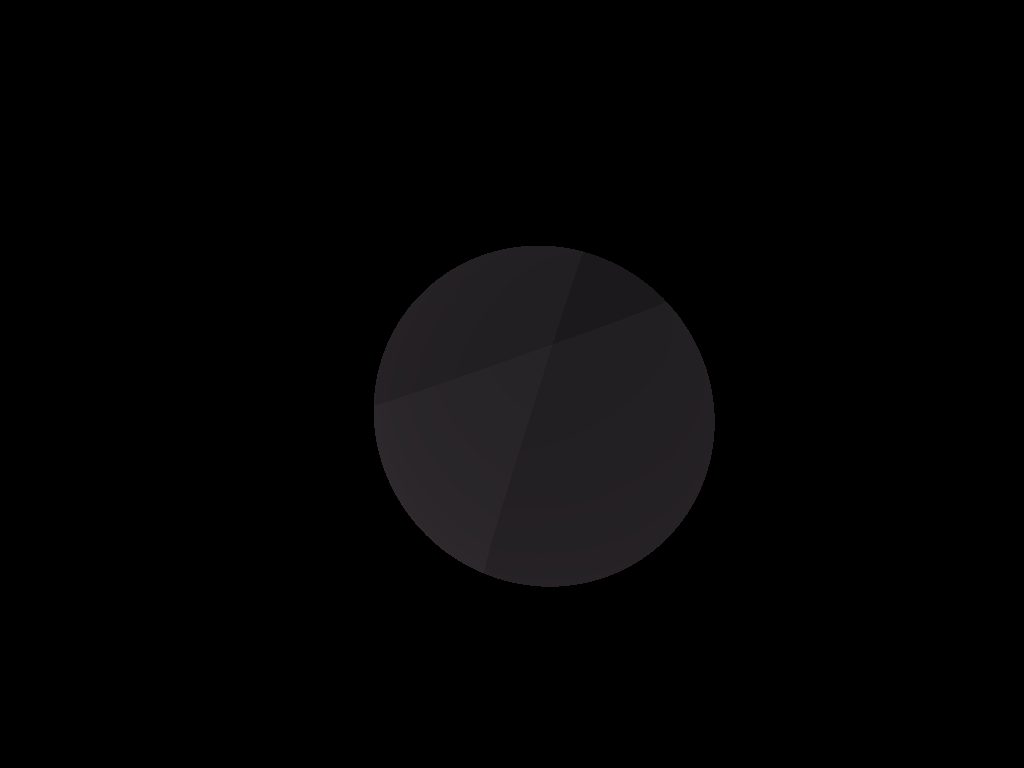
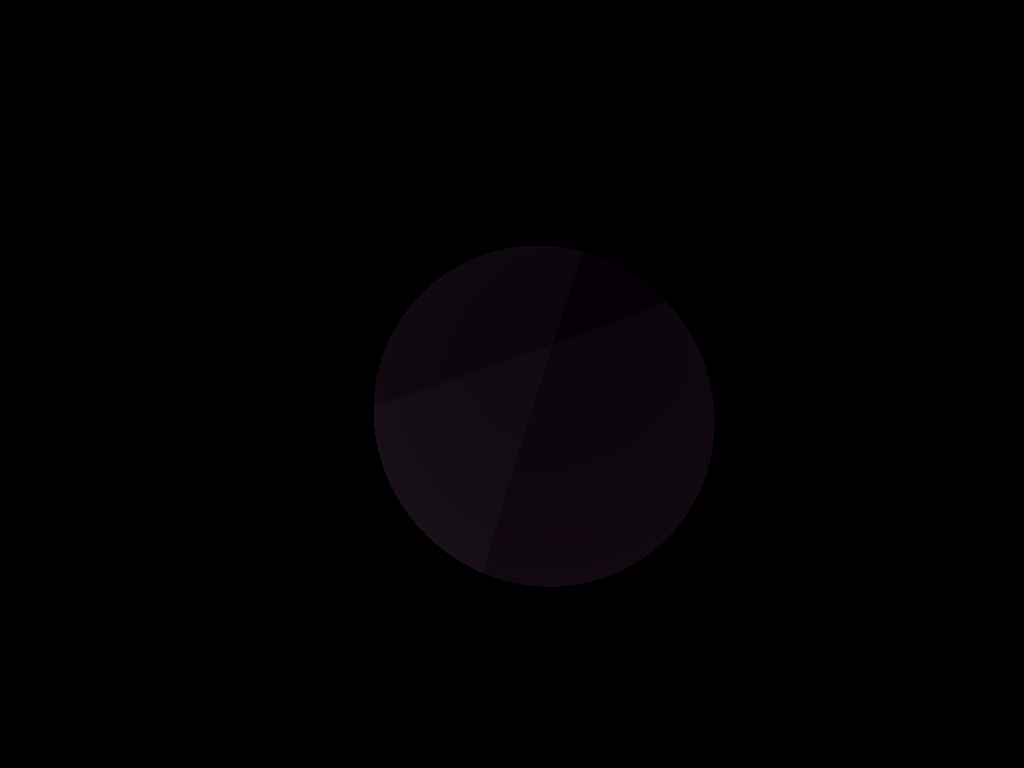
commit before some changes

Changed region(s): [[0.3438, 0.3125, 0.7188, 0.7812]]

diff --git a/src/api.rs b/src/api.rs
@@ -1,4 +1,4 @@
-use crate::{lights::{point_light::PointLight, ambient_light::AmbientLight}, core::{color::{Color, self}, point::Point, vector::Vector}, shapes::base_shape::BaseShape, scene::Scene, implicit_surfaces::implicit_surfaces, camera::pinhole::PinholeCamera, render::Render, materials::phong::Phong, bx};
+use crate::{lights::{point_light::PointLight, ambient_light::AmbientLight}, core::{color::{Color, self}, point::Point, vector::Vector}, shapes::base_shape::BaseShape, scene::Scene, implicit_surfaces::implicit_surfaces, camera::pinhole::PinholeCamera, render::Render, materials::{phong::Phong, matte::Matte}, bx};
 
 pub fn make_scene(shape: BaseShape) -> Scene {
     let light = make_light(color::WHITE, 0.5, Point::new(4.0, 2.0, 4.0));
@@ -17,6 +17,7 @@ pub fn make_scene(shape: BaseShape) -> Scene {
 pub fn sphere1(r: f32, _num_samples: i32) -> Render {
     let main_color = color::FUCHSIA;
     let white = color::WHITE;
+    //let material = Matte::new(main_color, 1.0, main_color, 1.0);
     let material = Phong::new(main_color, 0.2, main_color, 0.8, white, 0.7, 100);
     // mkPhongMaterial aqua 0.2 aqua 0.8 white 0.7 100
 
@@ -31,6 +32,23 @@ pub fn sphere1(r: f32, _num_samples: i32) -> Render {
         3.0,
         1024,
         768
+    );
+    let scene = make_scene(s);
+    Render::new(scene, camera)
+}
+
+pub fn torus(r: f32, rr: f32) -> Render {
+    let material = Matte::new(color::BLUE, 1.0, color::BLUE, 1.0);
+    let s = implicit_surfaces::make_implicit(format!("(((x^2 + y^2)_2 - {r})^2 + z^2)_2 - {rr}"), bx!(material));
+    let camera = PinholeCamera::new(
+        Point::new(0.0, 0.0, 4.0), 
+        Point::new(0.0, 0.0, 0.0),
+        Vector::new(0.0, 1.0, 0.0),
+        2.0, 
+        4.0, 
+        4.0,
+        500, 
+        500
     );
     let scene = make_scene(s);
     Render::new(scene, camera)

diff --git a/src/implicit_surfaces/uni_poly.rs b/src/implicit_surfaces/uni_poly.rs
@@ -272,7 +272,7 @@ pub fn sturm_seq(up: &UniPoly, derivative: &UniPoly) -> Vec<UniPoly> {
 /*
     Counts sign changes in a UniPoly Vec, for a given value inserted in the variable's place
 */
-fn count_sign_changes(up_vec: &Vec<UniPoly>, t: f32) -> u32 {
+fn count_sign_changes(up_vec: &Vec<UniPoly>, t: f32) -> i32 {
     let mut prev = solve_uni_poly(&up_vec[0], t);
     let mut count = 0;
     for i in 1..up_vec.len() {
@@ -294,17 +294,22 @@ fn count_sign_changes(up_vec: &Vec<UniPoly>, t: f32) -> u32 {
 */
 pub fn get_interval(up_vec: &Vec<UniPoly>, lo: f32, hi: f32, depth: i32) -> Option<(f32, f32)> {
     if depth <= 0 {
+        println!("returning some");
         Some((lo, hi))
     } else {
+        println!("\n{:?}\nlo: {}, hi: {}, depth: {}", up_vec, lo, hi, depth);
         let mid = lo + (hi - lo) / 2.0;
         let lo_diff = count_sign_changes(&up_vec, lo) - count_sign_changes(&up_vec, mid);
+        println!("lo_diff: {}", lo_diff);
         if lo_diff > 0 {
             get_interval(up_vec, lo, mid, depth - 1)
         } else {
             let hi_diff = count_sign_changes(&up_vec, mid) - count_sign_changes(&up_vec, hi);
+            println!("hi_diff: {}", hi_diff);
             if hi_diff > 0 {
                 get_interval(up_vec, mid, hi, depth - 1)
             } else {
+                println!("returning none");
                 None
             }
         }

diff --git a/src/materials/phong.rs b/src/materials/phong.rs
@@ -48,20 +48,26 @@ impl Material for Phong {
         let dp = n * ld;
         let lc = light.get_color();
 
-
         // determine the colour
         if dp > 0.0 {
-            let specular = if r1 * -rd > 0.0 {
-                self.specular_color * self.specular_coefficient * (r1 * -rd).powi(self.specular_exponent)
+            let r1_neg_rd = r1 * (-rd);
+            let specular = if r1_neg_rd > 0.0 {
+                self.specular_color * self.specular_coefficient * r1_neg_rd.powi(self.specular_exponent)
             } else {
                 color::BLACK
             };
 
             let direction = lc * dp;
-
+            //println!("dir: {:?}", direction);
+            //println!("diff: {:?}", self.diffuse);
+            //println!("spec: {:?}\n", specular);
             (self.diffuse + specular) * direction
         } else {
             color::BLACK
         }
+    }
+
+    fn ambient_color_with_light(&self, ambient_light: &AmbientLight) -> Color {
+        self.ambient_color * self.ambient_coefficient * ambient_light.get_color()
     }
 }

diff --git a/src/render.rs b/src/render.rs
@@ -2,7 +2,7 @@
 use lodepng;
 use std::path::Path;
 
-use crate::{scene::Scene, camera::pinhole::PinholeCamera, core::{color::{Color, self}, ray::Ray, hitpoint::HitPoint}, lights::{point_light::PointLight, Light}, shapes::base_shape::BaseShape};
+use crate::{scene::Scene, camera::pinhole::PinholeCamera, core::{color::{Color, self}, ray::Ray, hitpoint::HitPoint}, lights::{point_light::PointLight}, shapes::base_shape::BaseShape};
 
 pub struct Render {
     pub scene: Scene,
@@ -18,7 +18,7 @@ impl Render {
         match self.get_closest_hit(ray) {
             None                => self.scene.background,
             Some((hit, shape))  => {
-                let ambient_color = self.scene.ambient.get_color();
+                let ambient_color = shape.material.ambient_color_with_light(&self.scene.ambient);
                 
                 // sum the light colors (minus the shadow) for that hitpoint, and add them to the ambient color
                 self.scene.lights.iter()

diff --git a/src/implicit_surfaces/implicit_surfaces.rs b/src/implicit_surfaces/implicit_surfaces.rs
@@ -365,8 +365,11 @@ pub fn make_implicit(s: String, material: Box<dyn Material>) -> BaseShape {
     let pdz = partial_derivative(&exp, "z".into());
     // converting the Expr to a polynomial
     let poly = poly::expr_to_poly(subst_with_ray(&exp), "t".into());
+
+    //println!("POLY: {:?}\n", poly);
     // turn the poly into a vec of (i32, IntSimpleExpr) tuples
     let poly_vec = uni_poly::to_int_simple_expr_vec(poly::poly_as_list(poly));
+    //println!("POLY_VEC: {:?}\n", poly_vec);
 
     let hit_function: HitFunction = match poly_vec.last().expect("should not be empty").0 {
         1 => hit_function_first_degree(poly_vec, pdx, pdy, pdz),
@@ -374,6 +377,8 @@ pub fn make_implicit(s: String, material: Box<dyn Material>) -> BaseShape {
         _ => hit_function_higher_degree(poly_vec, pdx, pdy, pdz),
     };
     
+    //println!("so far so good");
+
     let is_inside = Box::pin(
         move |p: &Point| expr::solve_expr(&exp, &p) > 0.0
     );

diff --git a/src/core/color.rs b/src/core/color.rs
@@ -39,18 +39,18 @@ impl Color {
         }
     }
 
-    pub fn merge(&self, w: f32) -> Color {
+    /*fn merge(&self, w: f32) -> Color {
         if w < 0.0 || w > 1.0 {
             panic!("Color::merge: w i to small or too big");
         } else {
             let dw = 1.0 - w;
             Color::new(w * self.r + dw * self.r, w * self.g + dw * self.b, w * self.b + dw * self.b)
         }
-    }
+    }*/
 
-    pub fn average(&self) -> f32 {
+    /*fn average(&self) -> f32 {
         (self.r + self.g + self.b) * 3.0
-    }
+    }*/
 
     pub fn to_u8_vec(&self) -> Vec<u8> {
         vec![
@@ -59,6 +59,8 @@ impl Color {
             (self.b * 255.0) as u8,
         ]
     }
+
+
 }
 
 /*

diff --git a/src/materials/matte.rs b/src/materials/matte.rs
@@ -18,14 +18,6 @@ impl Matte {
             ambient_color, ambient_coefficient, diffuse,
         }
     }
-
-    pub fn ambient_color_with_light(&self, ambient_light: AmbientLight) -> Color {
-        self.ambient_color * self.ambient_coefficient * ambient_light.get_color()
-    }
-
-    pub fn reflection_factor(&self) -> Color {
-        color::WHITE
-    }
 }
 
 impl Material for Matte {
@@ -43,5 +35,9 @@ impl Material for Matte {
         } else {
             color::BLACK
         }
+    }
+
+    fn ambient_color_with_light(&self, ambient_light: &AmbientLight) -> Color {
+        self.ambient_color * self.ambient_coefficient * ambient_light.get_color()
     }
 }

diff --git a/src/materials/mod.rs b/src/materials/mod.rs
@@ -1,4 +1,4 @@
-use crate::{core::{hitpoint::HitPoint, color::Color, ray::Ray}, lights::point_light::PointLight};
+use crate::{core::{hitpoint::HitPoint, color::Color, ray::Ray}, lights::{point_light::PointLight, ambient_light::AmbientLight}};
 
 pub mod matte;
 pub mod phong;
@@ -7,4 +7,6 @@ const PI_DIVIDED: f32 = 1. / std::f32::consts::PI;
 
 pub trait Material {
     fn bounce(&self, hit_point: &HitPoint, light: &PointLight, ray: &Ray) -> Color;
+
+    fn ambient_color_with_light(&self, ambient_light: &AmbientLight) -> Color;
 }

diff --git a/src/core/hitpoint.rs b/src/core/hitpoint.rs
@@ -14,6 +14,7 @@ pub struct HitPoint {
 impl HitPoint {
     pub fn new(time: f32, normal: Vector, ray: &Ray) -> Self {
         let normal = if ray.direction * normal > 0.0 { 
+            // not sure if this ever happens
             -normal 
         } else {
             normal

diff --git a/src/core/ray.rs b/src/core/ray.rs
@@ -20,6 +20,10 @@ impl Ray {
     pub fn point_at_time(&self, t: f32) -> Point {
         self.origin + self.direction * t
     }
+
+    /*pub fn time_at_point(&self, p: &Point) -> f32 {
+        (*p - self.origin).z / self.direction.z
+    }*/
 }
 
 impl PartialEq for Ray {

diff --git a/src/main.rs b/src/main.rs
@@ -14,6 +14,6 @@ pub mod scene;
 pub mod render;
 
 fn main() {
-    let render = sphere1(1.0, 4);
+    let render = api::torus(1.0, 1.0);
     render.save_image("hello world");
 }
